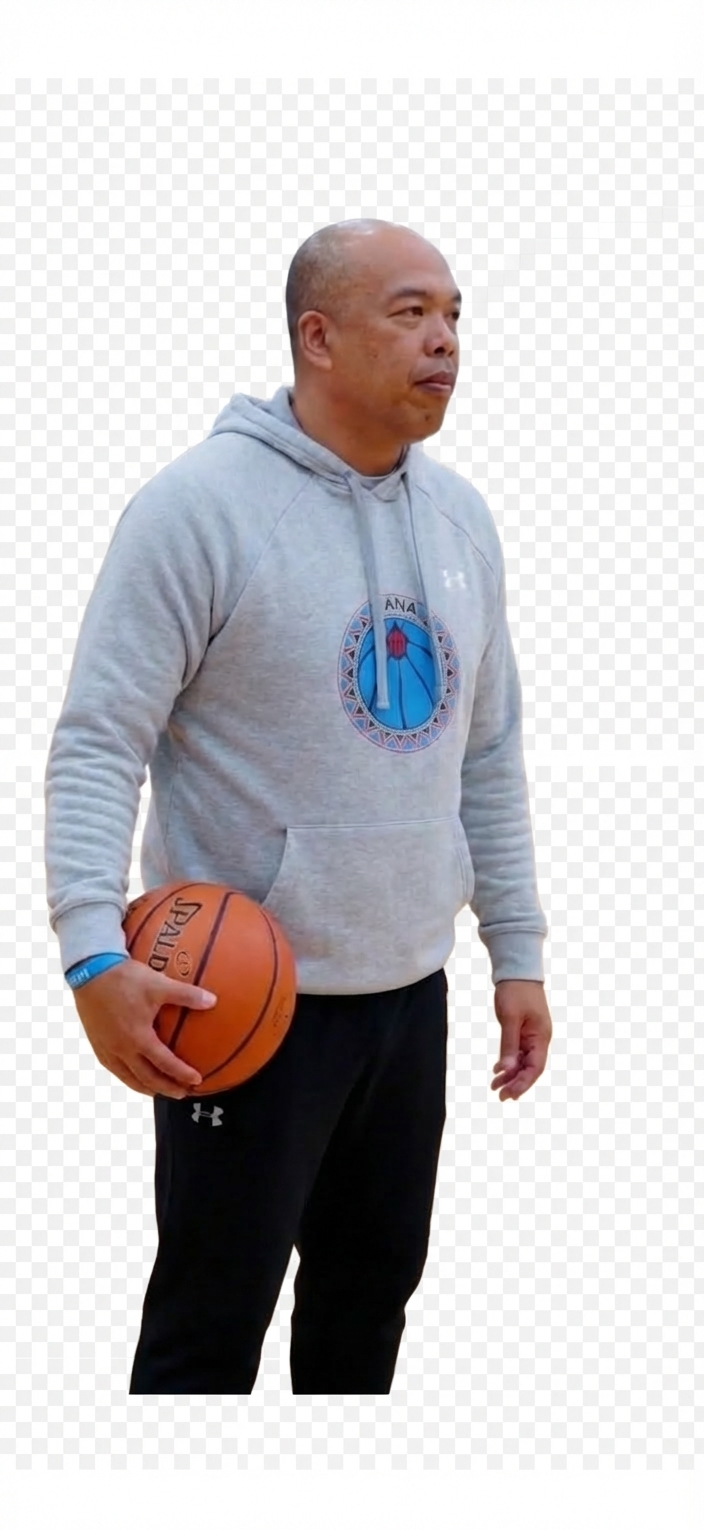
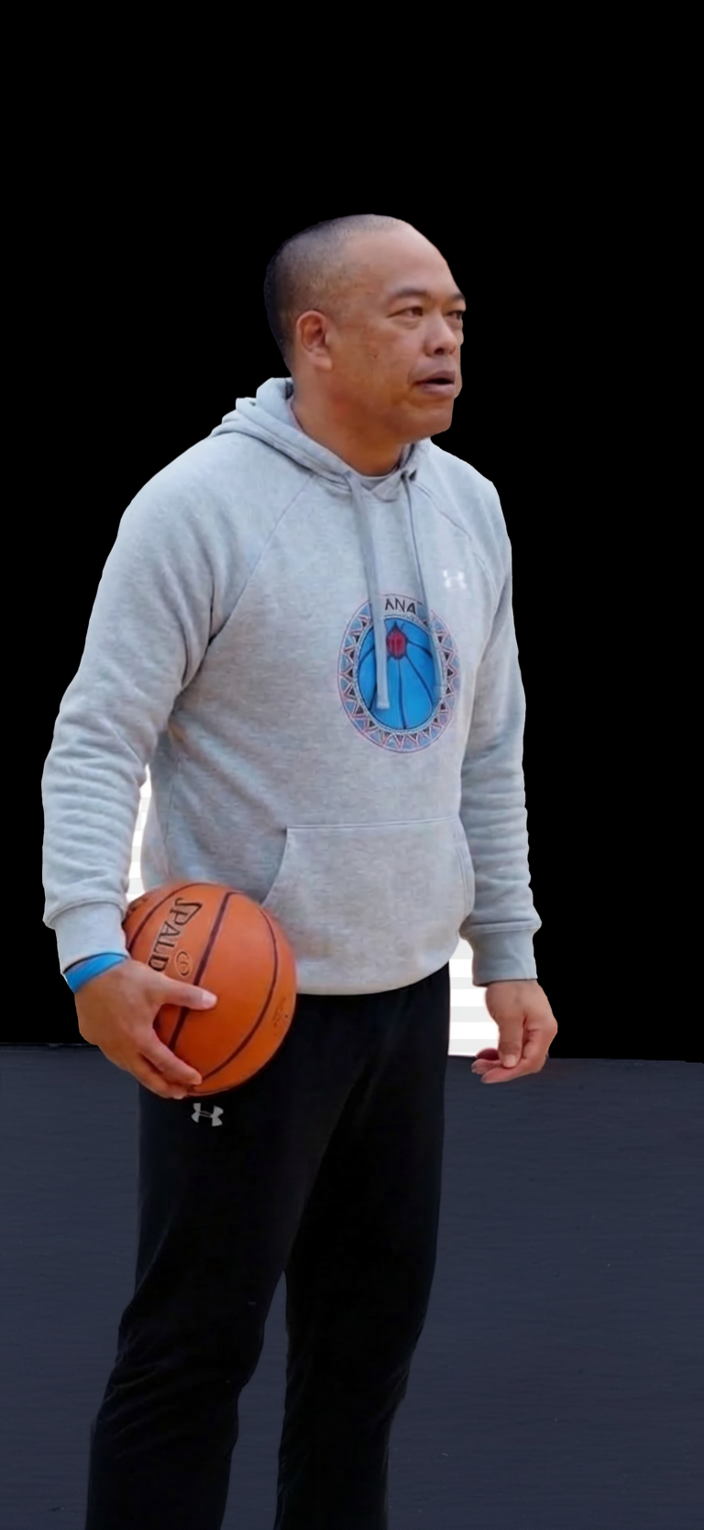
Update coach/player images with black backgrounds

diff --git a/index.html b/index.html
@@ -225,7 +225,6 @@ nav.scrolled .nav-logo img {
   max-height: 650px;
   width: auto;
   object-fit: contain;
-  filter: brightness(0.9) contrast(1.1);
   mix-blend-mode: lighten;
   opacity: 0;
   animation: fadeUp 1.2s 0.4s forwards;
